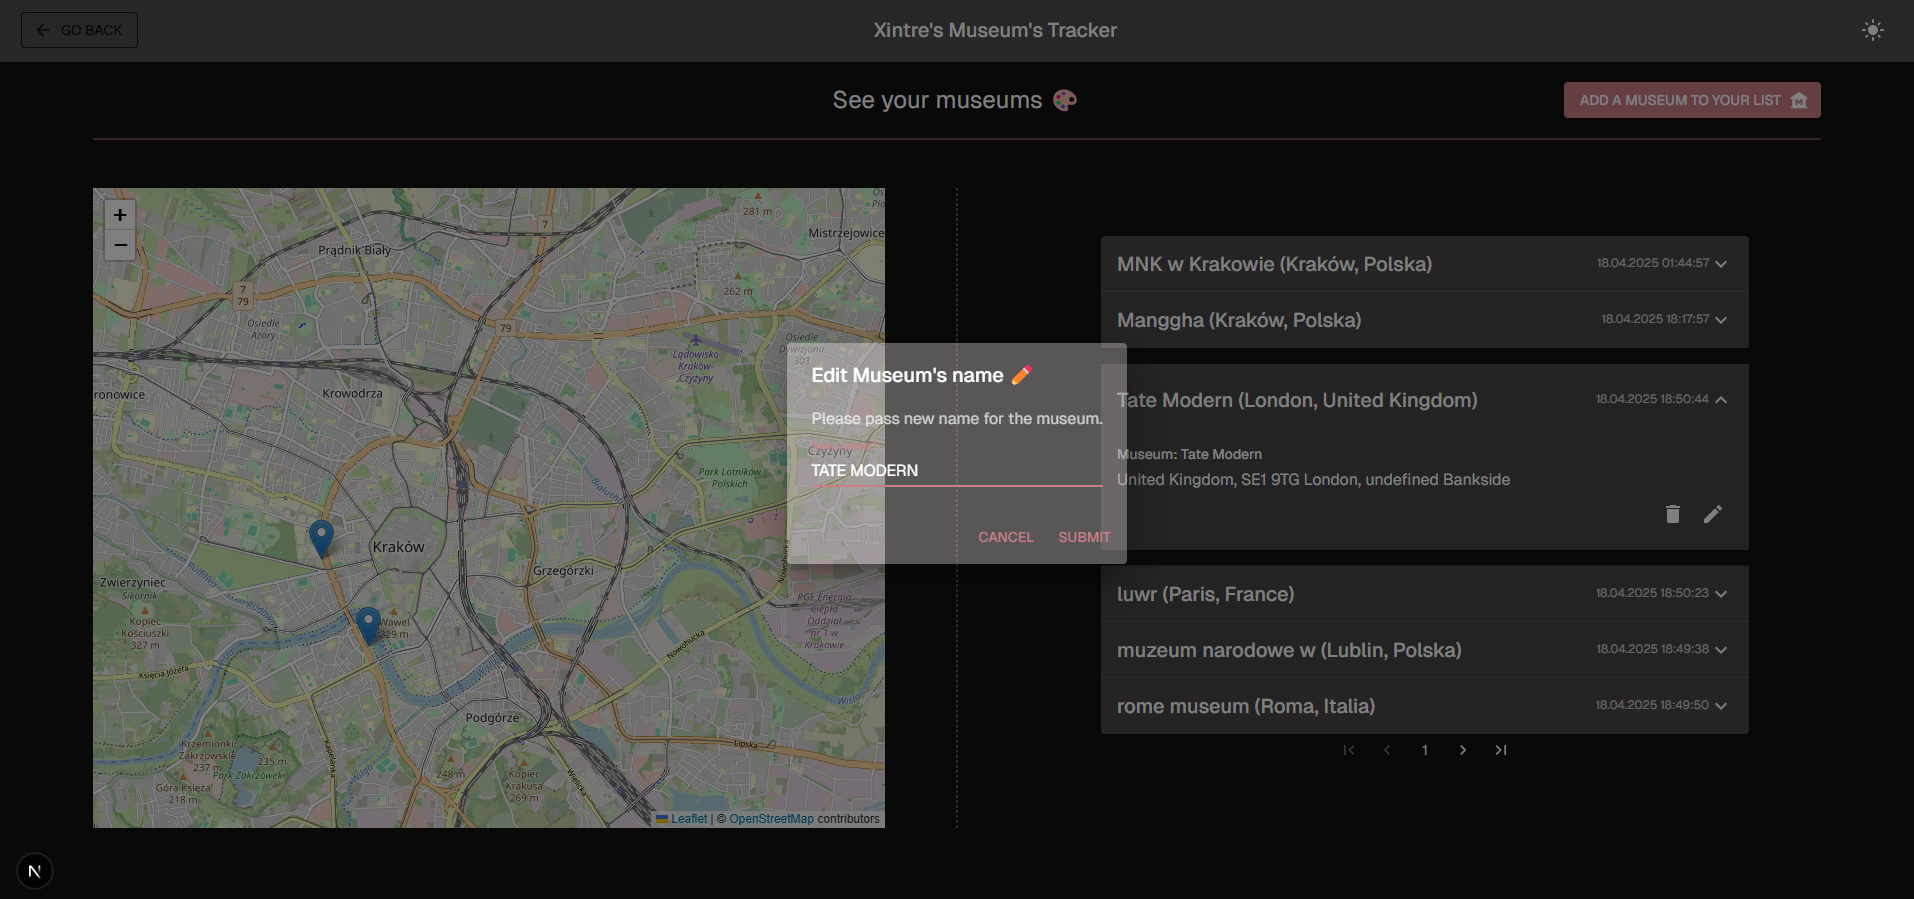
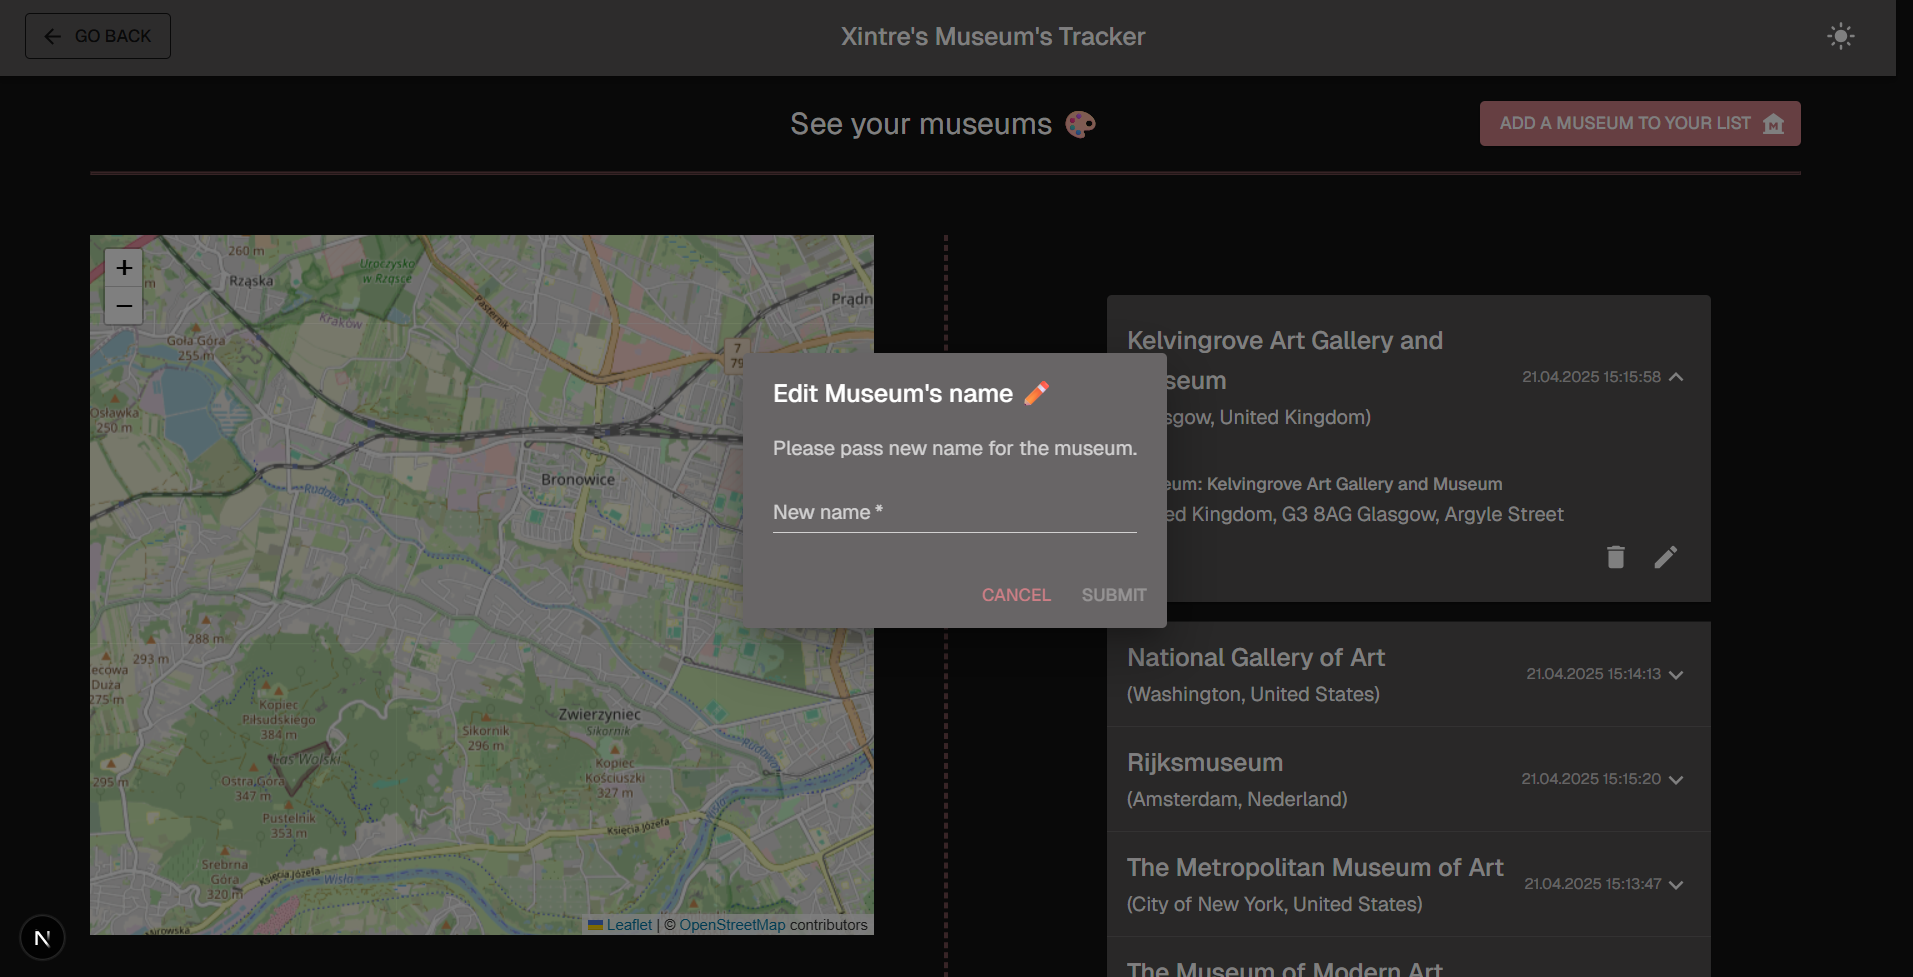
chore: added ERD screen & updated edit museum screenshot

Changed region(s): [[0.0, 0.0, 1.0, 1.0]]

diff --git a/README.md b/README.md
@@ -34,6 +34,10 @@ There are 3 submodules in this monorepository:
 ## Screenshots 📸
 
 <details>
+  <summary>ERD diagram of the DB</summary>
+    <img style="width:200px" src="./images/ERD.jpg">
+</details>
+<details>
   <summary>Museums view screen - dark & light mode</summary>
     <img style="width:300px" src="./images/museums view - dark mode.png">
     <img style="width:300px" src="./images/museums view - light mode.png">
